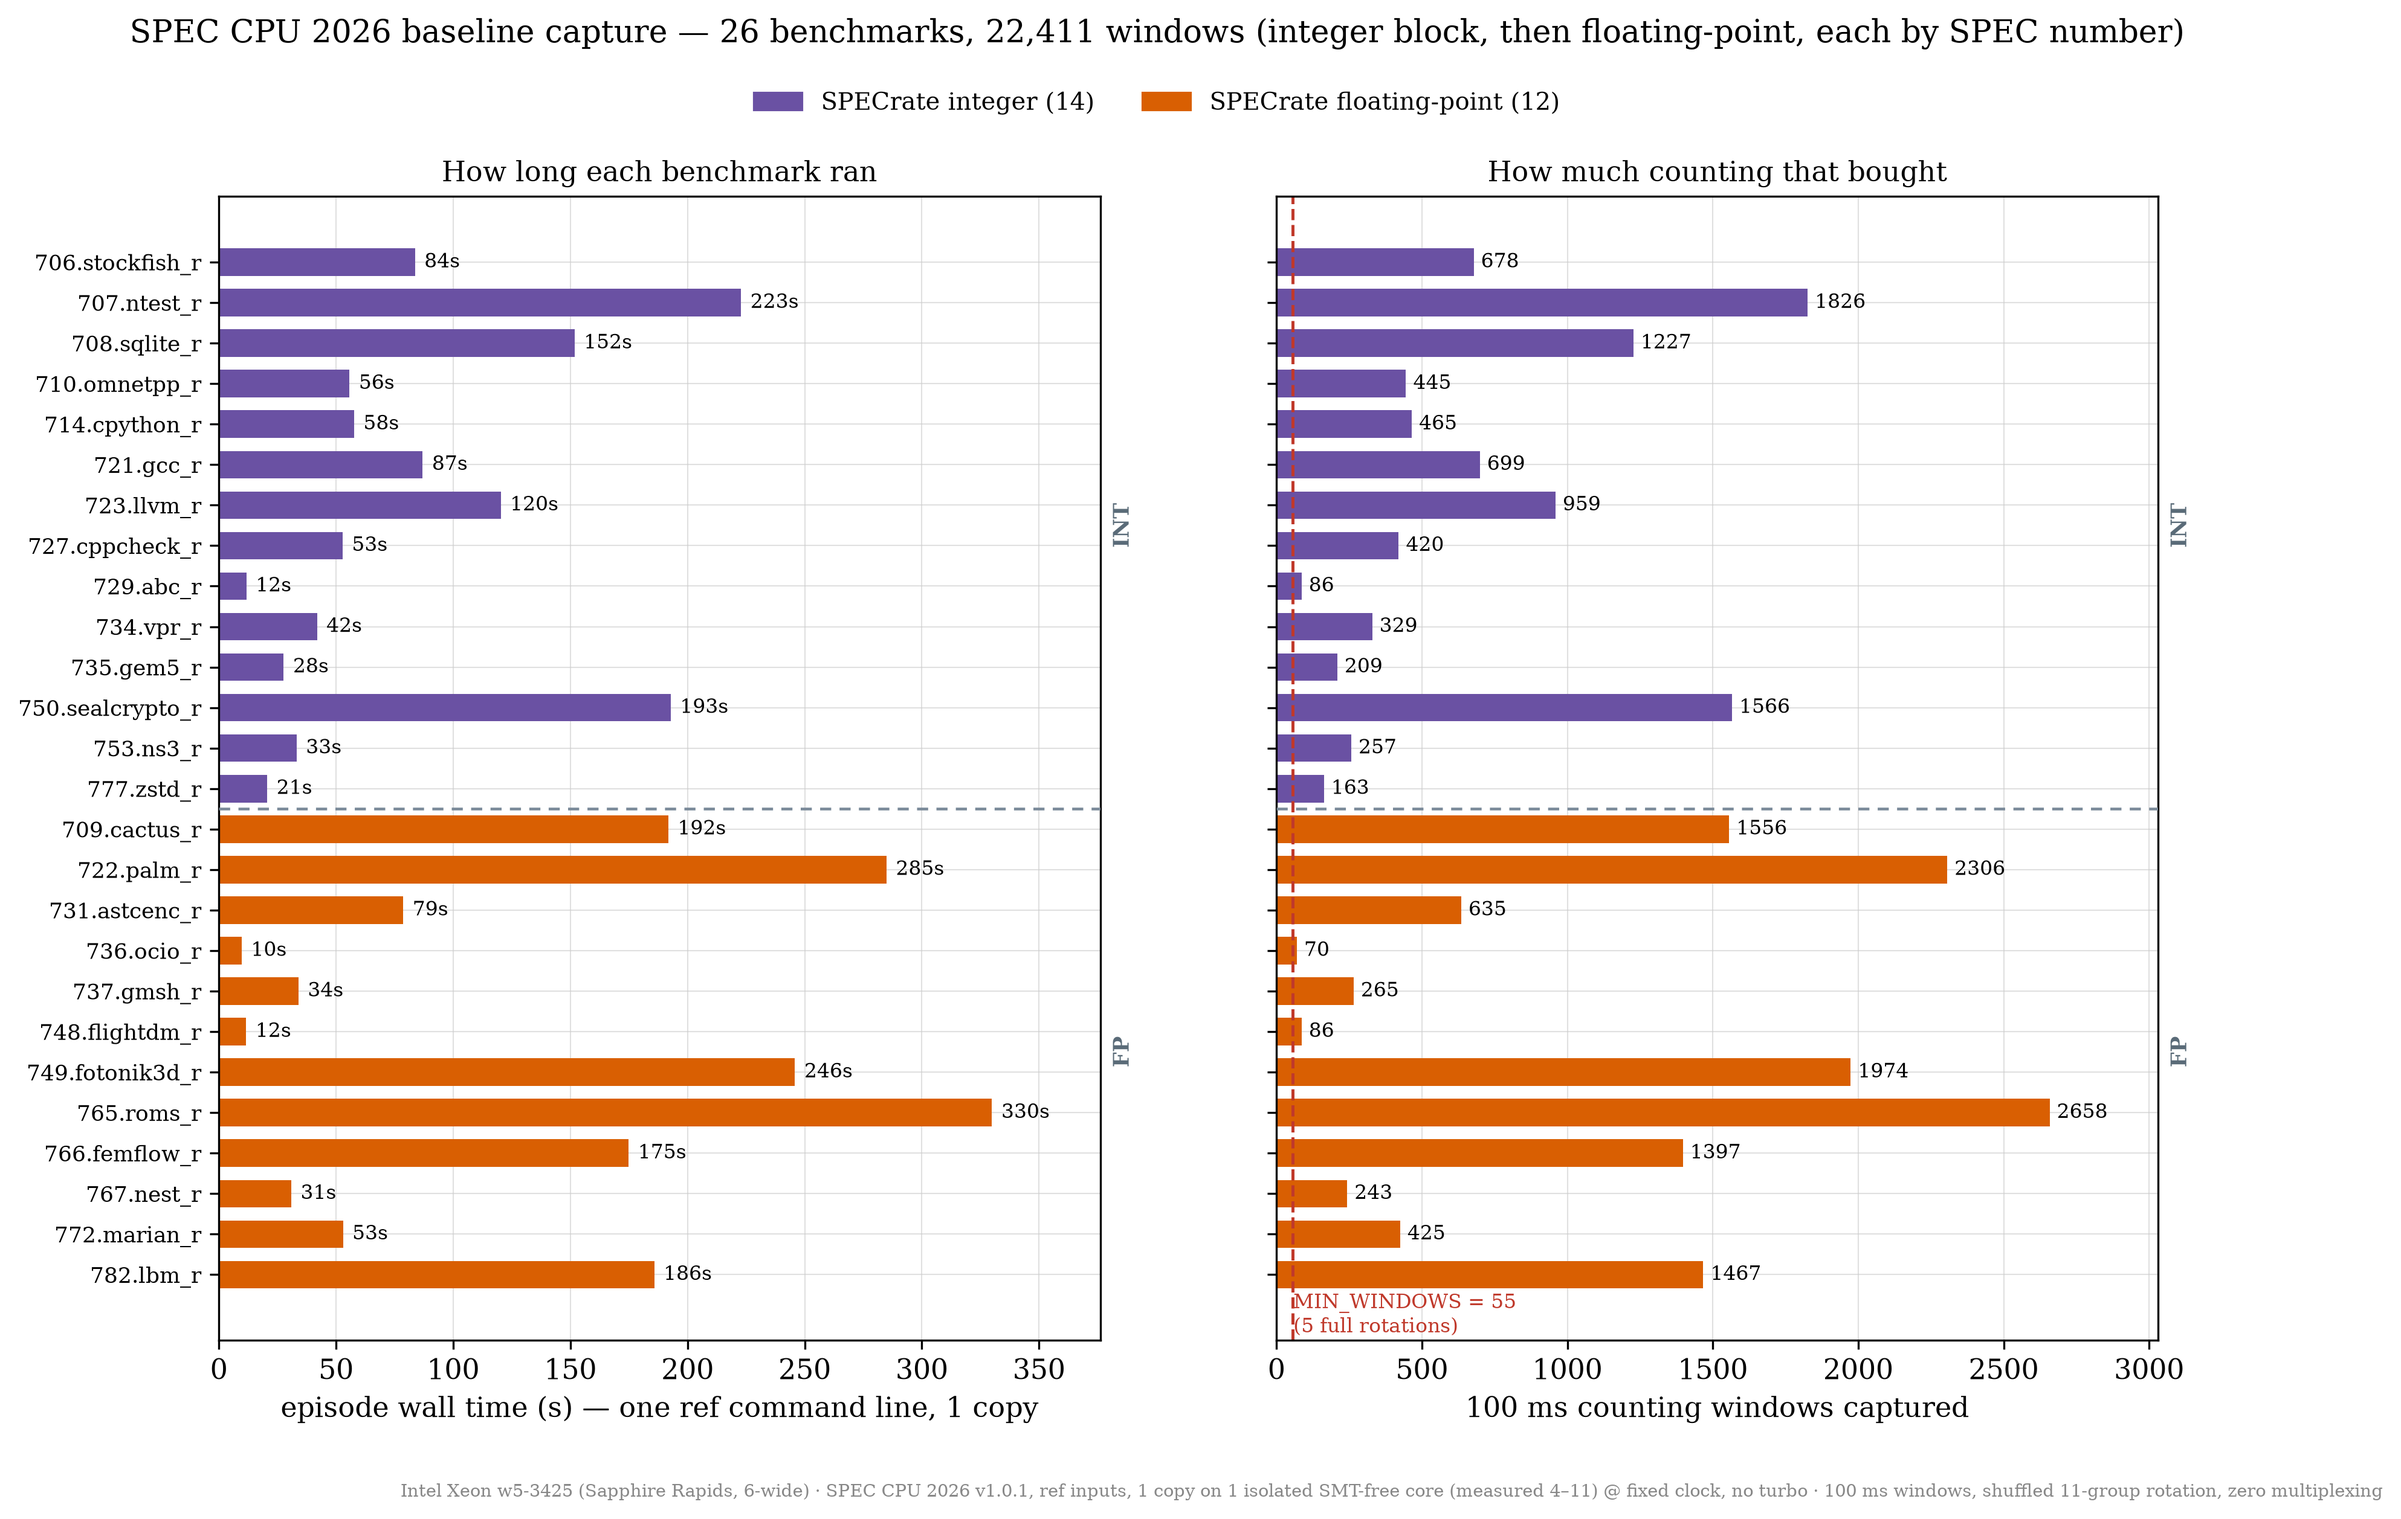
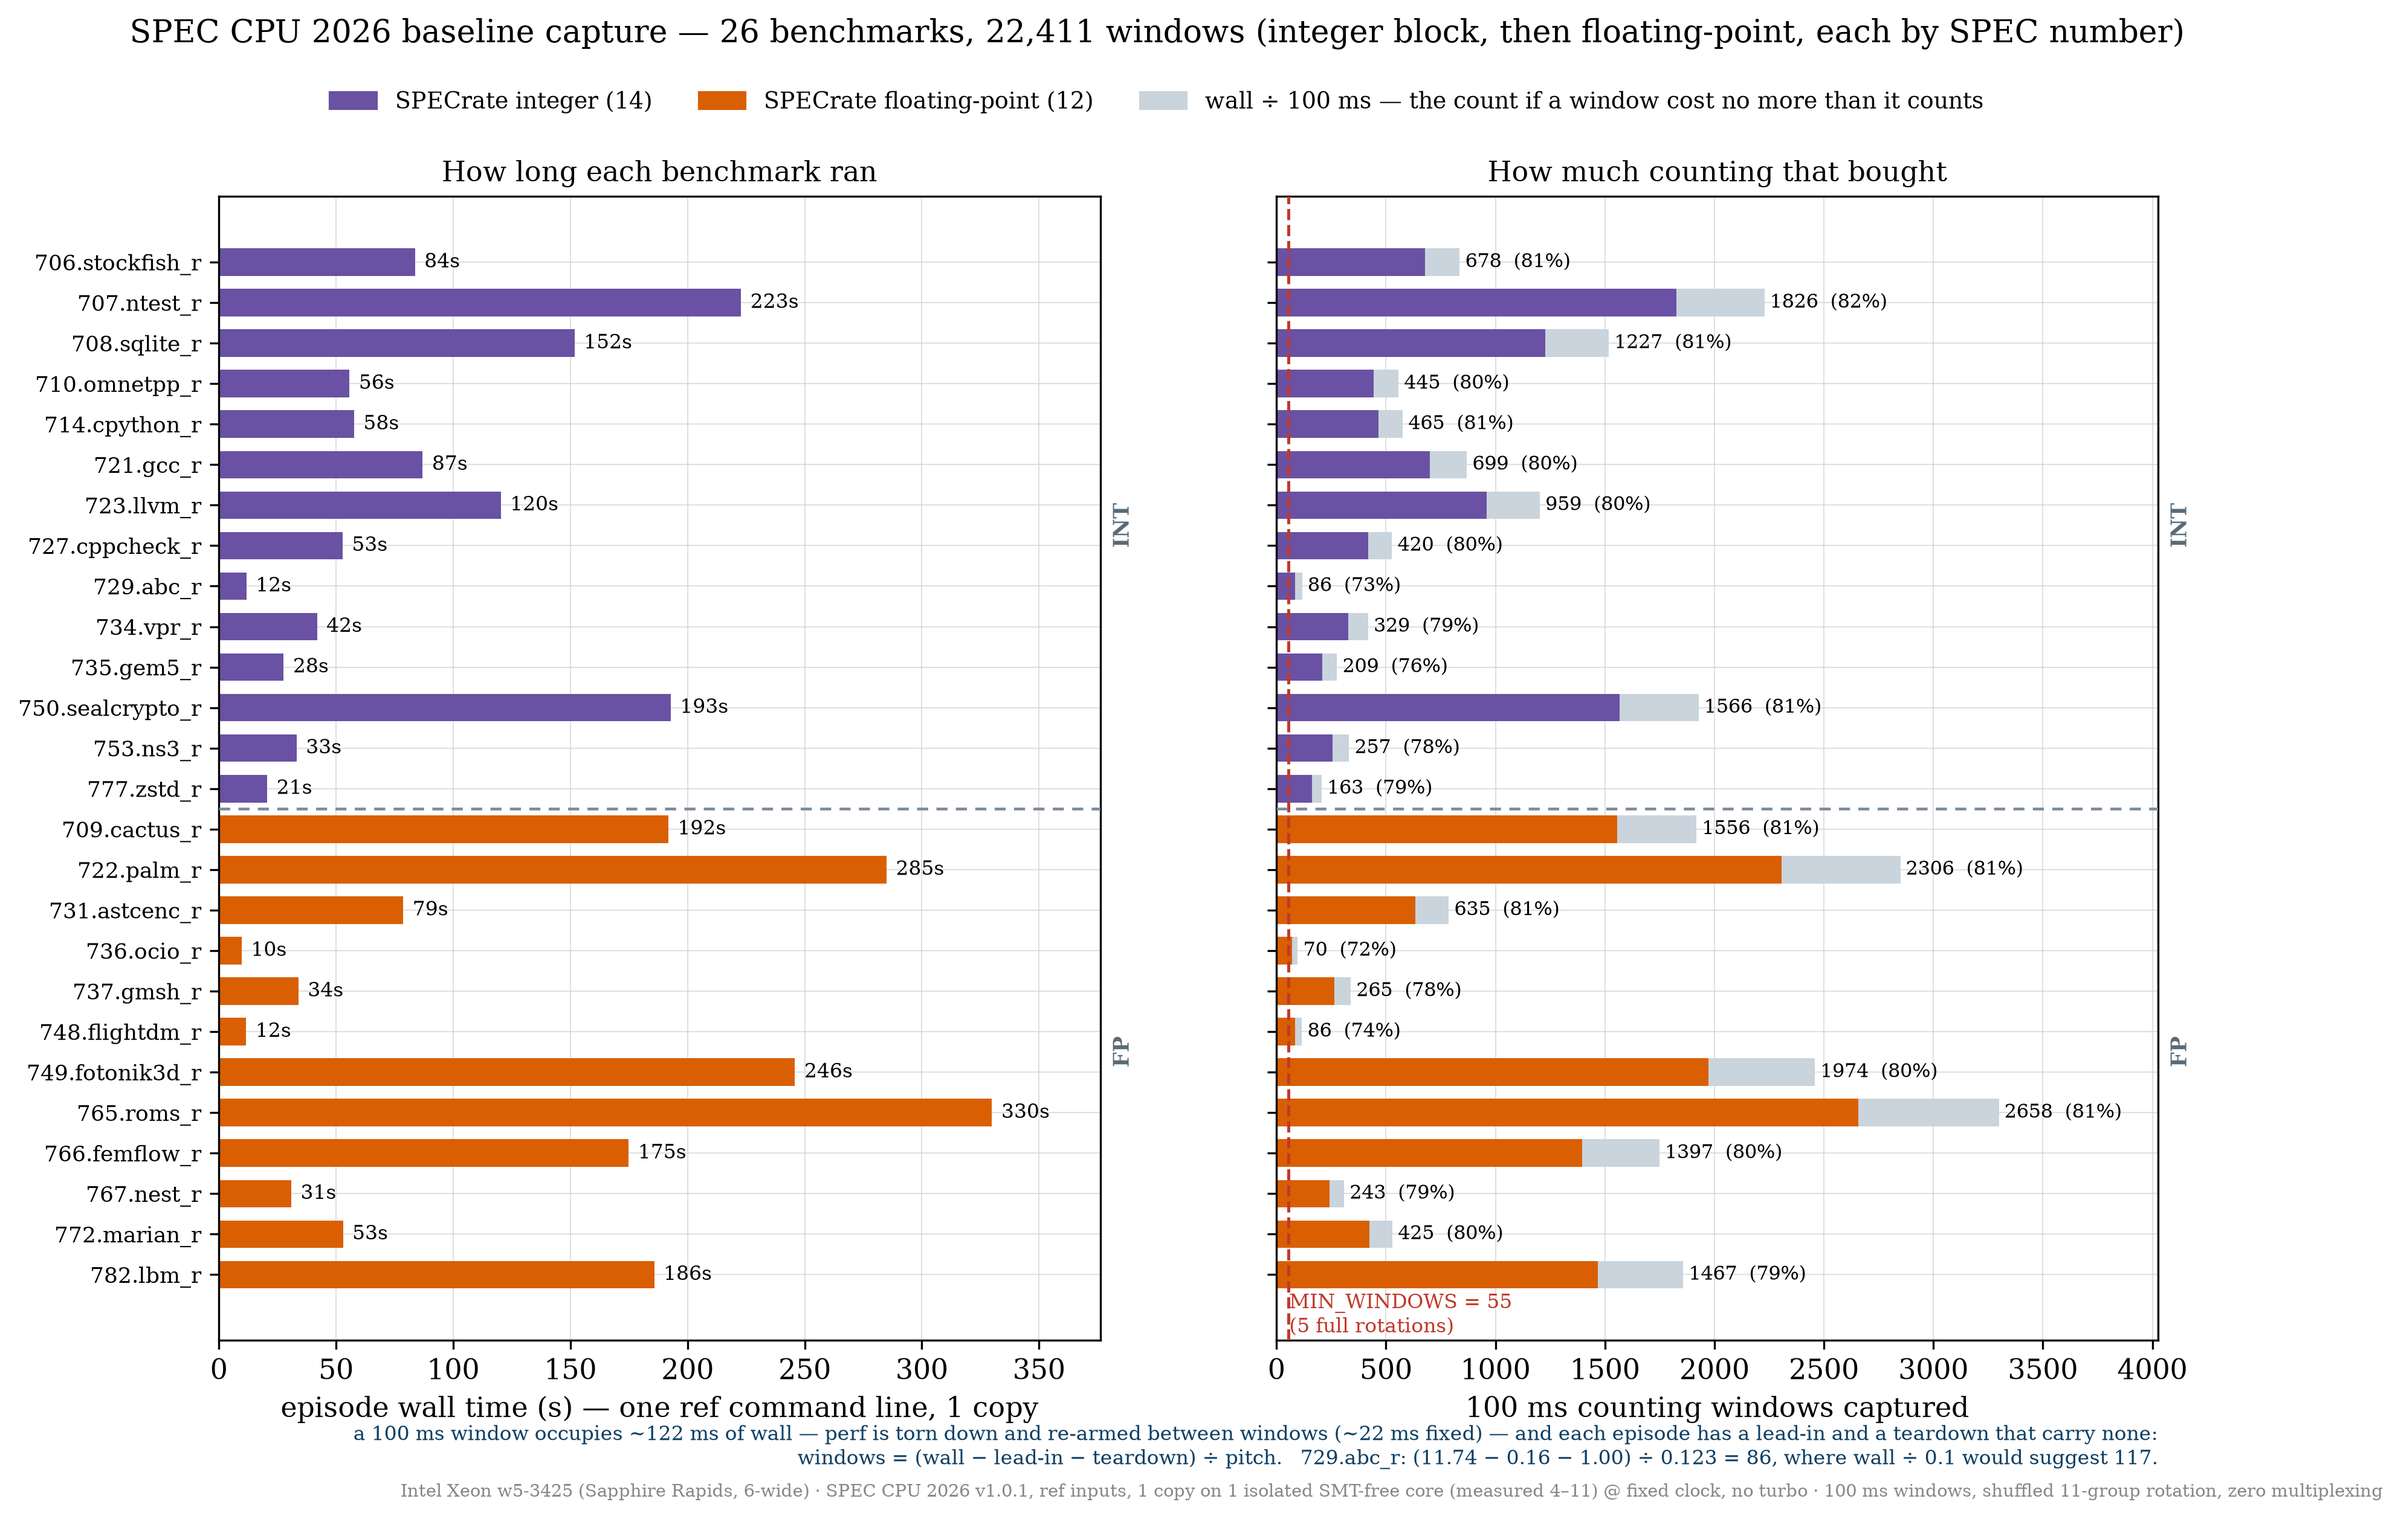
spec26: show why an episode does not yield wall/WINSEC windows
PI question on slide 5: 729.abc_r ran 11.7 s, so why only 86 windows of
100 ms and not 117? Because a 100 ms window does not occupy 100 ms of
wall. perf is torn down and re-armed between windows at a fixed ~22 ms,
making the pitch ~122 ms (measured 0.121-0.125 s across all 26), and each
episode has a lead-in before the first window is armed (median 0.11 s) and
a teardown after the benchmark exits (median 1.43 s: TMA census flush,
poller and 99 Hz record stop, scope stop) that carry no windows:

  windows = (wall - lead_in - teardown) / pitch
  729.abc_r: (11.74 - 0.16 - 1.00) / 0.123 = 86   vs 11.74/0.1 = 117

Every episode lands at 72-82% of the naive figure (median 80%); short ones
sit lowest because they pay the fixed teardown out of a small budget. This
is the same instrument cost already reported as the 83.3% counting duty,
but against a different denominator - duty is counted-time over window
span, this is windows over wall - so it needed stating separately.

- spec_common.window_budget() derives the terms per episode; banked into
  values_dump.json under capture (lead_in_s, teardown_s, pitch_s,
  naive_windows, pct_of_naive).
- Slide 5's right panel now draws wall/0.1 as a grey ghost bar behind each
  actual bar, labels each with its percentage, and carries the formula and
  the worked example under the axis. Deck slide 5 gains the explanation and
  the abc arithmetic as chips.
- Report 18 section 2.2 states the corollary with the suite-wide range.

diff --git a/spec26/kit/plot/plot_spec_results.py b/spec26/kit/plot/plot_spec_results.py
@@ -32,7 +32,7 @@ from matplotlib.patches import Patch  # noqa: E402
 from spec_common import (  # noqa: E402
     C_AGENT, C_FP, C_INT, C_SPEC, L1COLS, OUT, UOPCOLS,
     agentic_split, cat_divider, cat_sorted, comparison, duty, episodes, n_int, save, series,
-    slots_per_cycle, txtcol, windows,
+    slots_per_cycle, txtcol, window_budget, windows,
 )
 
 EPS = episodes()
@@ -89,19 +89,39 @@ a1.set_yticklabels([e["benchmark"] for e in order], fontsize=8.6)
 a1.set_title("How long each benchmark ran", fontsize=11)
 cat_divider(a1, order)
 
-a2.barh(Y, [e["n_windows"] for e in order], color=[bcol(e) for e in order], height=0.68)
+# The ghost bar is wall/0.1 — the count you get if you assume a 100 ms window costs 100 ms of
+# wall. It does not: perf is re-armed between windows (~22 ms fixed), and each episode has a
+# lead-in and a teardown that carry no windows. Drawing the gap stops the figure from looking
+# like windows went missing.
+BUD = {e["benchmark"]: window_budget(e) for e in EPS}
+a2.barh(Y, [BUD[e["benchmark"]]["naive_windows"] for e in order], color="#c9d4dd", height=0.68,
+        zorder=1)
+a2.barh(Y, [e["n_windows"] for e in order], color=[bcol(e) for e in order], height=0.68, zorder=2)
 for y, e in enumerate(order):
-    a2.text(e["n_windows"] + 25, y, f"{e['n_windows']}", va="center", fontsize=8)
-a2.axvline(55, color="#c0392b", lw=1.2, ls="--")
+    b = BUD[e["benchmark"]]
+    a2.text(b["naive_windows"] + 25, y, f"{e['n_windows']}  ({b['pct_of_naive']:.0f}%)",
+            va="center", fontsize=7.6)
+a2.axvline(55, color="#c0392b", lw=1.2, ls="--", zorder=3)
 a2.text(58, len(order) - 0.6, "MIN_WINDOWS = 55\n(5 full rotations)", fontsize=8, color="#c0392b",
         va="top")
 a2.set_xlabel("100 ms counting windows captured")
-a2.set_xlim(0, max(e["n_windows"] for e in order) * 1.14)
+a2.set_xlim(0, max(BUD[e["benchmark"]]["naive_windows"] for e in order) * 1.22)
 a2.set_title("How much counting that bought", fontsize=11)
+# Below the axis, not inside it: at the top-right the ghost bars run to 3,300 and at the
+# bottom-right the FP bars do, so there is no free corner to put it in.
+a2.text(1.0, -0.072, "a 100 ms window occupies ~122 ms of wall — perf is torn down and re-armed "
+                     "between windows (~22 ms fixed) — and each episode has a lead-in and a "
+                     "teardown that carry none:\n"
+                     "windows = (wall − lead-in − teardown) ÷ pitch.   "
+                     "729.abc_r: (11.74 − 0.16 − 1.00) ÷ 0.123 = 86, where wall ÷ 0.1 would "
+                     "suggest 117.",
+        transform=a2.transAxes, ha="right", va="top", fontsize=8, color="#0d3f63")
 cat_divider(a2, order)
 fig.legend(handles=[Patch(color=C_INT, label=f"SPECrate integer ({n_int(EPS)})"),
-                    Patch(color=C_FP, label=f"SPECrate floating-point ({len(EPS)-n_int(EPS)})")],
-           ncol=2, frameon=False, fontsize=9.5, loc="upper center", bbox_to_anchor=(0.5, 0.965))
+                    Patch(color=C_FP, label=f"SPECrate floating-point ({len(EPS)-n_int(EPS)})"),
+                    Patch(color="#c9d4dd", label="wall ÷ 100 ms — the count if a window cost no "
+                                                 "more than it counts")],
+           ncol=3, frameon=False, fontsize=9.2, loc="upper center", bbox_to_anchor=(0.5, 0.965))
 fig.suptitle(f"SPEC CPU 2026 baseline capture — {len(EPS)} benchmarks, "
              f"{sum(e['n_windows'] for e in EPS):,} windows "
              "(integer block, then floating-point, each by SPEC number)", fontsize=12.5, y=1.0)
@@ -119,9 +139,13 @@ def n_launched(e: dict) -> int:
 
 
 VALUES["capture"] = {e["benchmark"]: {"wall_s": e["wall_s"], "windows": e["n_windows"],
-                                  "windows_launched": n_launched(e),
-                                  "fp": e["fp"], "cmd_index": e["meta"].get("cmd_index"),
-                                  "size": e["meta"].get("size")} for e in EPS}
+                                      "windows_launched": n_launched(e),
+                                      "fp": e["fp"], "cmd_index": e["meta"].get("cmd_index"),
+                                      "size": e["meta"].get("size"),
+                                      **{k: v for k, v in (window_budget(e) or {}).items()
+                                         if k in ("lead_in_s", "teardown_s", "pitch_s",
+                                                  "naive_windows", "pct_of_naive")}}
+                     for e in EPS}
 
 # ================= Fig 2: the instrument checking itself =========================================
 # Three independent statements about the capture, none of which uses the metric values:

diff --git a/spec26/kit/plot/build_spec_deck.py b/spec26/kit/plot/build_spec_deck.py
@@ -44,6 +44,7 @@ C = V["comparison"]
 F = V["frontend"]
 T = V["tma_compare"]
 IV = V["int_vs_fp"]
+ABC = V["capture"]["729.abc_r"]
 
 
 def n(key: str, field: str = "ratio_agentic_over_spec", d: int = 2) -> str:
@@ -290,10 +291,18 @@ BODY = f"""
       55-window floor by 30×. <b>Ordering, here and on the next five figures:</b> the SPECrate
       integer block first, then floating-point, each by SPEC number — the two categories have
       genuinely different profiles, and a figure sorted by measured value hides that.</p>
+      <p class="lead"><b>Why the counts are not wall ÷ 100 ms</b> (the grey ghost bar). A 100 ms
+      window occupies about <b>122 ms</b> of wall clock: perf is torn down and re-armed between
+      windows at a fixed ~22 ms, and that cost sits between windows, not inside them. Each
+      episode also has a lead-in before the first window is armed and a teardown after the
+      benchmark exits — flushing the continuous TMA census, stopping the pollers and the 99 Hz
+      record, stopping the scope — during which no window runs.</p>
       <div class="figcard"><img alt="Per-benchmark wall time and window count" src="__SUITE__"></div>
       <div class="take">
         <div class="chip spec">longest <b>765.roms_r</b> 330 s · <b>2,658</b> windows</div>
         <div class="chip spec">shortest <b>736.ocio_r</b> 9.7 s · <b>70</b> windows</div>
+        <div class="chip warn"><b>729.abc_r worked through:</b> (11.74 s wall − {ABC['lead_in_s']:.2f} lead-in − {ABC['teardown_s']:.2f} teardown) ÷ {ABC['pitch_s']:.3f} s pitch = <b>{ABC['windows']}</b> windows, where wall ÷ 0.1 would suggest {ABC['naive_windows']:.0f}</div>
+        <div class="chip mute">every episode lands at <b>72–82 %</b> of wall ÷ 100 ms (median 80 %). Short episodes pay the fixed ~1–1.5 s teardown out of a small budget, so they sit lowest</div>
         <div class="chip mute">total <b>{sum(c['windows'] for c in V['capture'].values()):,}</b> windows carrying counters ({sum(c['windows_launched'] for c in V['capture'].values()):,} launched) over <b>{sum(c['wall_s'] for c in V['capture'].values())/60:.0f}</b> minutes of benchmark time</div>
       </div>
     </div>

diff --git a/spec26/kit/plot/spec_common.py b/spec26/kit/plot/spec_common.py
@@ -487,6 +487,44 @@ def duty(rows: list[dict], d: str) -> float | None:
     return min(1.0, counted / (hi - lo))
 
 
+def window_budget(ep: dict) -> dict | None:
+    """Where an episode's wall time went, and why it does not buy wall/WINSEC windows.
+
+    A 100 ms window does NOT occupy 100 ms of wall clock. perf has to be torn down and
+    re-armed between windows (a fixed ~22 ms), so the window PITCH is ~122 ms; on top of
+    that each episode has a lead-in before the first window is armed and a teardown after
+    the benchmark exits (flush the continuous TMA census, stop the pollers and the 99 Hz
+    record, stop the scope) during which no window is running.
+
+        windows = (wall - lead_in - teardown) / pitch
+
+    Short episodes pay the fixed teardown out of a small budget, so they land furthest from
+    the naive wall/WINSEC figure: 729.abc_r gets 86 windows where wall/0.1 would suggest 117.
+    """
+    p = os.path.join(ep["dir"], "windows.tsv")
+    if not os.path.exists(p):
+        return None
+    ts = []
+    for ln in open(p):
+        f = ln.rstrip("\n").split("\t")
+        if len(f) < 4 or f[0] == "win":
+            continue
+        try:
+            ts.append((float(f[2]), float(f[3])))
+        except ValueError:
+            continue
+    meta = ep.get("meta") or {}
+    if not ts or not meta.get("ts_start"):
+        return None
+    lo, hi, n = min(a for a, _ in ts), max(b for _, b in ts), len(ts)
+    winsec = float(meta.get("winsec") or 0.1)
+    return {"wall_s": ep["wall_s"], "lead_in_s": lo - meta["ts_start"],
+            "teardown_s": meta["ts_end"] - hi, "windowing_s": hi - lo,
+            "pitch_s": (hi - lo) / n, "windows": n,
+            "naive_windows": ep["wall_s"] / winsec,
+            "pct_of_naive": 100.0 * n / (ep["wall_s"] / winsec)}
+
+
 def slots_per_cycle(ep: dict, rows: list[dict]) -> float | None:
     """Cross-instrument check: continuous-TMA slots against windowed cycles.
 

diff --git a/docs/reports/18_spec26_cpu2026_baseline.md b/docs/reports/18_spec26_cpu2026_baseline.md
@@ -86,10 +86,18 @@ Defects found and fixed during the study, each of which would have shipped a wro
   system slices to "all online CPUs" instead of what it had snapshotted. It now snapshots and
   restores the real values, per-CPU (governors differ per core; offline CPUs reject writes).
 
-**Known limitations.** (a) **Counting duty is 83.3 %**: re-arming perf costs a fixed ~20 ms per
-window, so a 100 ms window runs 120 ms wall. The dead time sits between windows and is
-uncorrelated with program phase, and the continuous TMA census is unaffected (100 % duty, zero
-GP counters) — but ~17 % of wall is unobserved by the windowed groups. (b) **SMT and contention**
+**Known limitations.** (a) **Counting duty is 83.3 %**: re-arming perf costs a fixed ~22 ms per
+window, so a 100 ms window occupies ~122 ms of wall (measured pitch 0.121–0.125 s across the
+suite). The dead time sits between windows and is uncorrelated with program phase, and the
+continuous TMA census is unaffected (100 % duty, zero GP counters) — but ~17 % of wall is
+unobserved by the windowed groups. **A corollary worth stating because it is asked every time:**
+an episode does not yield `wall / WINSEC` windows. Each one also has a lead-in before the first
+window is armed (median 0.11 s) and a teardown after the benchmark exits (median 1.43 s — TMA
+flush, poller and record stop, scope stop) that carry no windows, so
+`windows = (wall − lead_in − teardown) / pitch`. Every episode lands at **72–82 %** of the naive
+figure (median 80 %); short ones sit lowest because they pay the fixed teardown out of a small
+budget. Worked example, 729.abc_r: (11.74 − 0.16 − 1.00) / 0.123 = **86**, where 11.74 / 0.1
+would suggest 117. The per-episode terms are banked in `values_dump.json` under `capture`. (b) **SMT and contention**
 differ between campaigns (§2.4). (c) The agentic rotation population is **7 episodes over
 4 tasks** — small. (d) `AMAT_cyc` is a fixed-latency model (5/15/50/250 cycles), not a measured
 latency.
